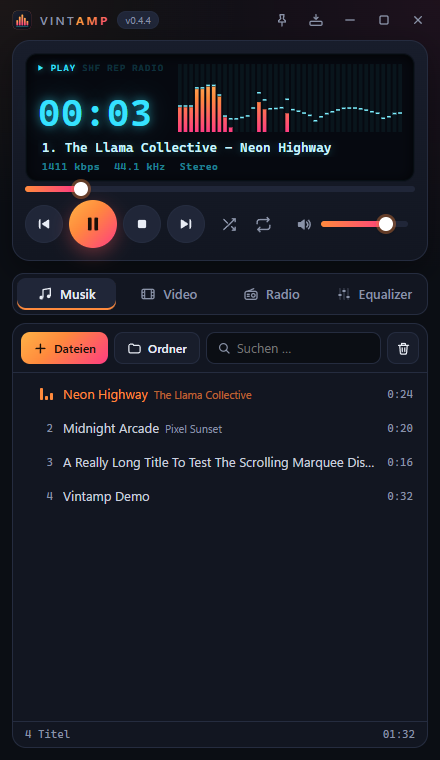
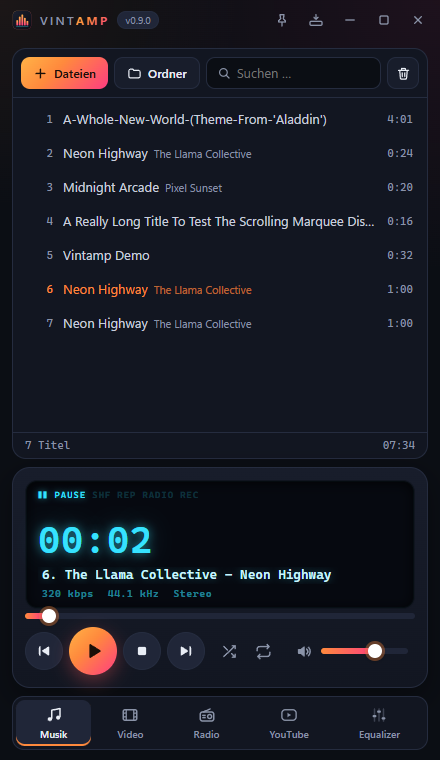
Docs: neues Design, Tempo & Tonart, Tag-Editor, YouTube Music (v0.9.0)

diff --git a/README.md b/README.md
@@ -4,8 +4,8 @@
 
 **Der Player, wie er früher war – nur schöner.**
 Klein, schnell, startet sofort und spielt so gut wie alles: Musik und Videos direkt im Fenster,
-Internetradio (über 50.000 Sender) mit Aufnahme, Audio-Cutter, MIDI mit Spur-Ansicht, 10-Band-Equalizer, 16 Visualizer und
-Mini-Modus – im modernen dunklen Design. Auf Deutsch und Englisch.
+Internetradio (über 50.000 Sender) mit Aufnahme, YouTube Music, Tempo- und Tonart-Erkennung, Tag-Editor, Audio-Cutter,
+MIDI mit Spur-Ansicht, 10-Band-Equalizer, 16 Visualizer und Mini-Modus – im modernen dunklen Design. Auf Deutsch und Englisch.
 
 **[⬇ Neueste Version für Windows herunterladen](https://github.com/hunther2k/vintamp-releases/releases/latest)**
 
@@ -17,9 +17,21 @@ Mini-Modus – im modernen dunklen Design. Auf Deutsch und Englisch.
   <img src="docs/equalizer.png" alt="Vintamp – 10-Band-Equalizer" width="250">
 </p>
 
-**Maximiert oder im Vollbild** – Player und großer Visualizer links, Senderliste mehrspaltig rechts:
+**Maximiert oder im Vollbild** – Navigation links, Inhalt rechts, die Player-Leiste mit Leucht-Display unten über die ganze Breite:
 
-<p><img src="docs/breit.png" alt="Vintamp – breite Ansicht mit Senderliste und großem Visualizer" width="790"></p>
+<p><img src="docs/breit.png" alt="Vintamp – breite Ansicht mit Seitenleiste, Senderliste und Player-Leiste" width="790"></p>
+
+**Tempo und Tonart** – Vintamp erkennt BPM und Tonart (Camelot) jedes Titels; Titel, die harmonisch zum laufenden passen, leuchten:
+
+<p><img src="docs/musik.png" alt="Vintamp – Musikliste mit BPM- und Tonart-Spalten" width="790"></p>
+
+**Tag-Editor** – Titel, Interpret, Album, BPM, Tonart, Cover … für eine oder viele Dateien; Cue-Punkte und Beatgrids von DJ-Programmen bleiben erhalten:
+
+<p><img src="docs/tags.png" alt="Vintamp – Tag-Editor" width="790"></p>
+
+**YouTube Music** – suchen, abspielen, in die Musikliste übernehmen:
+
+<p><img src="docs/youtube.png" alt="Vintamp – YouTube-Music-Suche" width="790"></p>
 
 **Radio-Aufnahme** – ein Klick auf ●, die Sendung landet verlustfrei in einer Datei; alle Aufnahmen im eigenen Bereich:
 
@@ -29,7 +41,7 @@ Mini-Modus – im modernen dunklen Design. Auf Deutsch und Englisch.
   <img src="docs/aufnahmen.png" alt="Vintamp – Bereich Aufnahmen mit laufender und fertigen Aufnahmen" width="390">
 </p>
 
-**Videos direkt im Fenster** – mit Untertiteln, Tonspur-Wahl und Geschwindigkeit; Klick ins Bild pausiert, Doppelklick schaltet auf Vollbild:
+**Videos direkt im Fenster** – die Bedienleiste sitzt direkt unter dem Bild, mit Untertiteln, Tonspur-Wahl und Geschwindigkeit; Klick ins Bild pausiert, Doppelklick schaltet auf Vollbild:
 
 <p><img src="docs/video.png" alt="Vintamp – Video im Vintamp-Fenster" width="790"><br>
 <sub>Im Bild: „Big Buck Bunny“ © Blender Foundation, <a href="https://creativecommons.org/licenses/by/3.0/">CC BY 3.0</a></sub></p>
@@ -60,8 +72,8 @@ Mini-Modus – im modernen dunklen Design. Auf Deutsch und Englisch.
 **Abspielen**
 - Spielt praktisch jedes Audioformat: MP3, FLAC, OGG/Opus, AAC/M4A, WAV, WMA, APE und mehr
 - Videos (MP4, MKV, WebM, AVI …) laufen direkt im Vintamp-Fenster im Reiter „Video“ – oben der
-  Player, darunter die Videoliste; mit
-  schlanker Leiste (Zeit und Spulen oben im Player); Klick ins Bild pausiert, Doppelklick oder F
+  Player, darunter die Videoliste; die Bedienleiste (Spulen, Zurück/Play/Weiter, Lautstärke, Zeit,
+  Untertitel, Tonspur, Tempo, Vollbild) sitzt direkt unter dem Bild; Klick ins Bild pausiert, Doppelklick oder F
   schaltet Vollbild an und aus, Esc zurück – im Vollbild nur das Bild: bei Mausbewegung blendet die
   Bedienleiste (Spulen, Zeit, Weiter/Zurück, Untertitel, Lautstärke) weich darüber ein und wieder aus
 - Untertitel ein- und ausschalten oder eine Untertiteldatei (SRT, ASS, VTT …) laden – passende
@@ -76,7 +88,21 @@ Mini-Modus – im modernen dunklen Design. Auf Deutsch und Englisch.
 - Dateien oder ganze Ordner einfach ins Fenster ziehen
 - Doppelklick auf eine Musikdatei im Explorer spielt sie im laufenden Vintamp – kein zweites Fenster
 - Beim Titelwechsel rückt der aktuelle Titel in die Mitte – man sieht, was als Nächstes kommt
-- Titel, Interpret und Länge werden aus den Tags gelesen
+- Titel, Interpret, Länge, BPM und Tonart werden aus den Tags gelesen
+- **Tempo und Tonart:** Was in den Tags fehlt, erkennt Vintamp im Hintergrund selbst (ca. eine halbe Sekunde je
+  Titel, jede Datei nur einmal) – Spalten BPM und Tonart im Camelot-Rad; Titel, die harmonisch zum laufenden
+  passen, leuchten. Die Suche findet auch „128“ oder „8A“
+- Sortieren per Klick auf einen Spaltenkopf (Titel, Interpret, Album, BPM, Tonart, Typ, Länge)
+- **Tag-Editor** (Rechtsklick → „Tags bearbeiten …“): Titel, Interpret, Album, Album-Interpret, Jahr, Genre, Track,
+  CD, BPM, Tonart, Kommentar und Cover – auch für viele Dateien auf einmal; „Aus Dateiname“ übernimmt
+  „Interpret - Titel“, „BPM & Tonart erkennen“ füllt Tempo und Tonart aus dem Ton. Geschrieben wird verlustfrei:
+  Cue-Punkte, Beatgrids und andere Daten von DJ-Programmen bleiben erhalten
+
+**YouTube Music**
+- Eigener Bereich „YouTube“: Titel oder Videos suchen, mit Vorschaubild, Interpret, Album und Länge
+- Doppelklick spielt ab, „+“ hängt den Titel an die Musikliste (auch alle Treffer auf einmal)
+- Gespielt wird nur der Ton als Stream – nichts wird heruntergeladen oder gespeichert. Dafür braucht Vintamp
+  einmalig das freie Programm yt-dlp (ca. 18 MB), das es auf Knopfdruck selbst einrichtet und aktualisiert
 - Suche, Mehrfachauswahl (Strg/Umschalt), Reihenfolge per Maus ändern
 - Titel einzeln oder mehrere aus der Liste entfernen – Entf, Rechtsklick oder Mülleimer (ohne Auswahl leert er die Liste)
 - Zufallswiedergabe, Wiederholen (alle oder einen Titel)
@@ -144,8 +170,9 @@ Mini-Modus – im modernen dunklen Design. Auf Deutsch und Englisch.
 - Während ein Video läuft, treten die Visualizer zurück – das Bild hat Vorrang
 
 **Bedienung**
-- Maximiert oder im Vollbild (F11) zweispaltig: Player und großer Visualizer links,
-  Playlist mit Spalten (Titel, Interpret, Album, Typ, Länge) bzw. Senderliste rechts
+- Breit (maximiert oder im Vollbild, F11): Seitenleiste mit Bibliothek, Entdecken und Werkzeugen plus großem
+  Visualizer links, Inhalt rechts, Player-Leiste mit Leucht-Display unten über die ganze Breite
+- Schmal: Inhalt oben, Player-Leiste darunter, Navigation als Symbolleiste ganz unten – wie eine Handy-App
 - Auf breiten Bildschirmen stehen Playlist und Sender mehrspaltig nebeneinander –
   automatisch nach Fensterbreite oder fest 1–6 Spalten
 - Mini-Modus als schmale Leiste und „Immer im Vordergrund“
@@ -164,10 +191,8 @@ Mini-Modus – im modernen dunklen Design. Auf Deutsch und Englisch.
 
 | | Funktion | Darum geht's |
 |---|---|---|
-| 1 | **Tag-Editor** | Titel, Interpret, Album, Jahr, Genre, Tracknummer und Cover bearbeiten – auch für viele Dateien auf einmal, Tags aus dem Dateinamen übernehmen |
-| 2 | **YouTube Music** | Deine YouTube-Music-Bibliothek in Vintamp nutzen |
-| 3 | **Spotify** | Spotify aus Vintamp steuern: Suche, Playlists, aktueller Titel im Display (über Spotify Connect, Premium nötig) |
-| 4 | **Linux & macOS** | Vintamp auf allen drei Systemen |
+| 1 | **Spotify** | Spotify aus Vintamp steuern: Suche, Playlists, aktueller Titel im Display (über Spotify Connect, Premium nötig) |
+| 2 | **Linux & macOS** | Vintamp auf allen drei Systemen |
 
 ## Ideen für später
 

diff --git a/README.en.md b/README.en.md
@@ -4,8 +4,8 @@
 
 **The player like it used to be – only prettier.**
 Small, fast, starts instantly and plays just about anything: music and videos right in the window,
-internet radio (more than 50,000 stations) with recording, an audio cutter, MIDI with a track view, 10-band equalizer, 16 visualizers
-and a mini mode – in a modern dark design. In English and German.
+internet radio (more than 50,000 stations) with recording, YouTube Music, tempo and key detection, a tag editor, an audio cutter,
+MIDI with a track view, 10-band equalizer, 16 visualizers and a mini mode – in a modern dark design. In English and German.
 
 **[⬇ Download the latest version for Windows](https://github.com/hunther2k/vintamp-releases/releases/latest)**
 
@@ -19,9 +19,21 @@ and a mini mode – in a modern dark design. In English and German.
 
 <sub>Screenshots show the German interface – Vintamp switches to English automatically on an English Windows.</sub>
 
-**Maximized or full screen** – player and large visualizer on the left, station list in several columns on the right:
+**Maximized or full screen** – navigation on the left, content on the right, the player bar with its glowing display across the bottom:
 
-<p><img src="docs/breit.png" alt="Vintamp – wide view with station list and large visualizer" width="790"></p>
+<p><img src="docs/breit.png" alt="Vintamp – wide view with sidebar, station list and player bar" width="790"></p>
+
+**Tempo and key** – Vintamp detects the BPM and key (Camelot) of every track; tracks that fit the playing one harmonically light up:
+
+<p><img src="docs/musik.png" alt="Vintamp – music list with BPM and key columns" width="790"></p>
+
+**Tag editor** – title, artist, album, BPM, key, cover … for one or many files; cue points and beat grids of DJ software are kept:
+
+<p><img src="docs/tags.png" alt="Vintamp – tag editor" width="790"></p>
+
+**YouTube Music** – search, play, add to the music list:
+
+<p><img src="docs/youtube.png" alt="Vintamp – YouTube Music search" width="790"></p>
 
 **Radio recording** – one click on ●, the broadcast is saved losslessly in one file; all recordings in their own section:
 
@@ -31,7 +43,7 @@ and a mini mode – in a modern dark design. In English and German.
   <img src="docs/aufnahmen.png" alt="Vintamp – recordings section with a running and finished recordings" width="390">
 </p>
 
-**Videos right in the window** – with subtitles, audio track selection and speed; click the picture to pause, double-click for full screen:
+**Videos right in the window** – the control bar sits right below the picture, with subtitles, audio track selection and speed; click the picture to pause, double-click for full screen:
 
 <p><img src="docs/video.png" alt="Vintamp – video inside the Vintamp window" width="790"><br>
 <sub>Shown: “Big Buck Bunny” © Blender Foundation, <a href="https://creativecommons.org/licenses/by/3.0/">CC BY 3.0</a></sub></p>
@@ -62,8 +74,8 @@ and a mini mode – in a modern dark design. In English and German.
 **Playback**
 - Plays practically every audio format: MP3, FLAC, OGG/Opus, AAC/M4A, WAV, WMA, APE and more
 - Videos (MP4, MKV, WebM, AVI …) play right inside the Vintamp window in the “Video” tab – player
-  on top, video list below; with a
-  slim bar (time and seeking stay up in the player); click the picture to pause, double-click or F
+  on top, video list below; the control bar (seeking, previous/play/next, volume, time, subtitles,
+  audio track, speed, full screen) sits right below the picture; click the picture to pause, double-click or F
   toggles full screen, Esc to go back – full screen shows just the picture: move the mouse and the
   control bar (seeking, time, next/previous, subtitles, volume) fades in over it and out again
 - Turn subtitles on and off or load a subtitle file (SRT, ASS, VTT …) – matching files next to the
@@ -78,7 +90,21 @@ and a mini mode – in a modern dark design. In English and German.
 - Simply drag files or whole folders into the window
 - Double-clicking a music file in Explorer plays it in the running Vintamp – no second window
 - When the track changes, the current one moves to the middle – so you see what's coming next
-- Title, artist and length are read from the tags
+- Title, artist, length, BPM and key are read from the tags
+- **Tempo and key:** whatever the tags lack, Vintamp detects itself in the background (about half a second per
+  track, each file only once) – BPM and key columns on the Camelot wheel; tracks that fit the playing one
+  harmonically light up. Search also finds “128” or “8A”
+- Sort by clicking a column header (title, artist, album, BPM, key, type, length)
+- **Tag editor** (right-click → “Edit tags …”): title, artist, album, album artist, year, genre, track, disc, BPM,
+  key, comment and cover – also for many files at once; “From file name” takes “Artist - Title”, “Detect BPM &
+  key” fills tempo and key from the audio. Writing is lossless: cue points, beat grids and other data of DJ
+  software are kept
+
+**YouTube Music**
+- Its own “YouTube” section: search songs or videos, with thumbnail, artist, album and length
+- Double-click plays, “+” appends the song to the music list (also all results at once)
+- Only the audio is played as a stream – nothing is downloaded or saved. For this, Vintamp needs the free
+  program yt-dlp (about 18 MB) once; it sets it up and updates it itself at the push of a button
 - Search, multi-select (Ctrl/Shift), reorder with the mouse
 - Remove one or several tracks from the list – Del, right-click or trash can (without a selection it clears the list)
 - Shuffle, repeat (all or one track)
@@ -146,8 +172,9 @@ and a mini mode – in a modern dark design. In English and German.
 - While a video plays, the visualizers step aside – the picture comes first
 
 **Usability**
-- Maximized or full screen (F11) in two columns: player and large visualizer on the left,
-  playlist with columns (title, artist, album, type, length) or the station list on the right
+- Wide (maximized or full screen, F11): sidebar with library, discover and tools plus a large visualizer on the
+  left, content on the right, the player bar with its glowing display across the bottom
+- Narrow: content on top, the player bar below, navigation as an icon bar at the very bottom – like a phone app
 - On wide screens, playlist and stations are shown in several columns side by side –
   automatically by window width or fixed at 1–6 columns
 - Mini mode as a slim bar and “always on top”
@@ -166,10 +193,8 @@ and a mini mode – in a modern dark design. In English and German.
 
 | | Feature | What it's about |
 |---|---|---|
-| 1 | **Tag editor** | Edit title, artist, album, year, genre, track number and cover – also for many files at once, take tags from the file name |
-| 2 | **YouTube Music** | Use your YouTube Music library in Vintamp |
-| 3 | **Spotify** | Control Spotify from Vintamp: search, playlists, current song in the display (via Spotify Connect, Premium required) |
-| 4 | **Linux & macOS** | Vintamp on all three systems |
+| 1 | **Spotify** | Control Spotify from Vintamp: search, playlists, current song in the display (via Spotify Connect, Premium required) |
+| 2 | **Linux & macOS** | Vintamp on all three systems |
 
 ## Ideas for later
 
